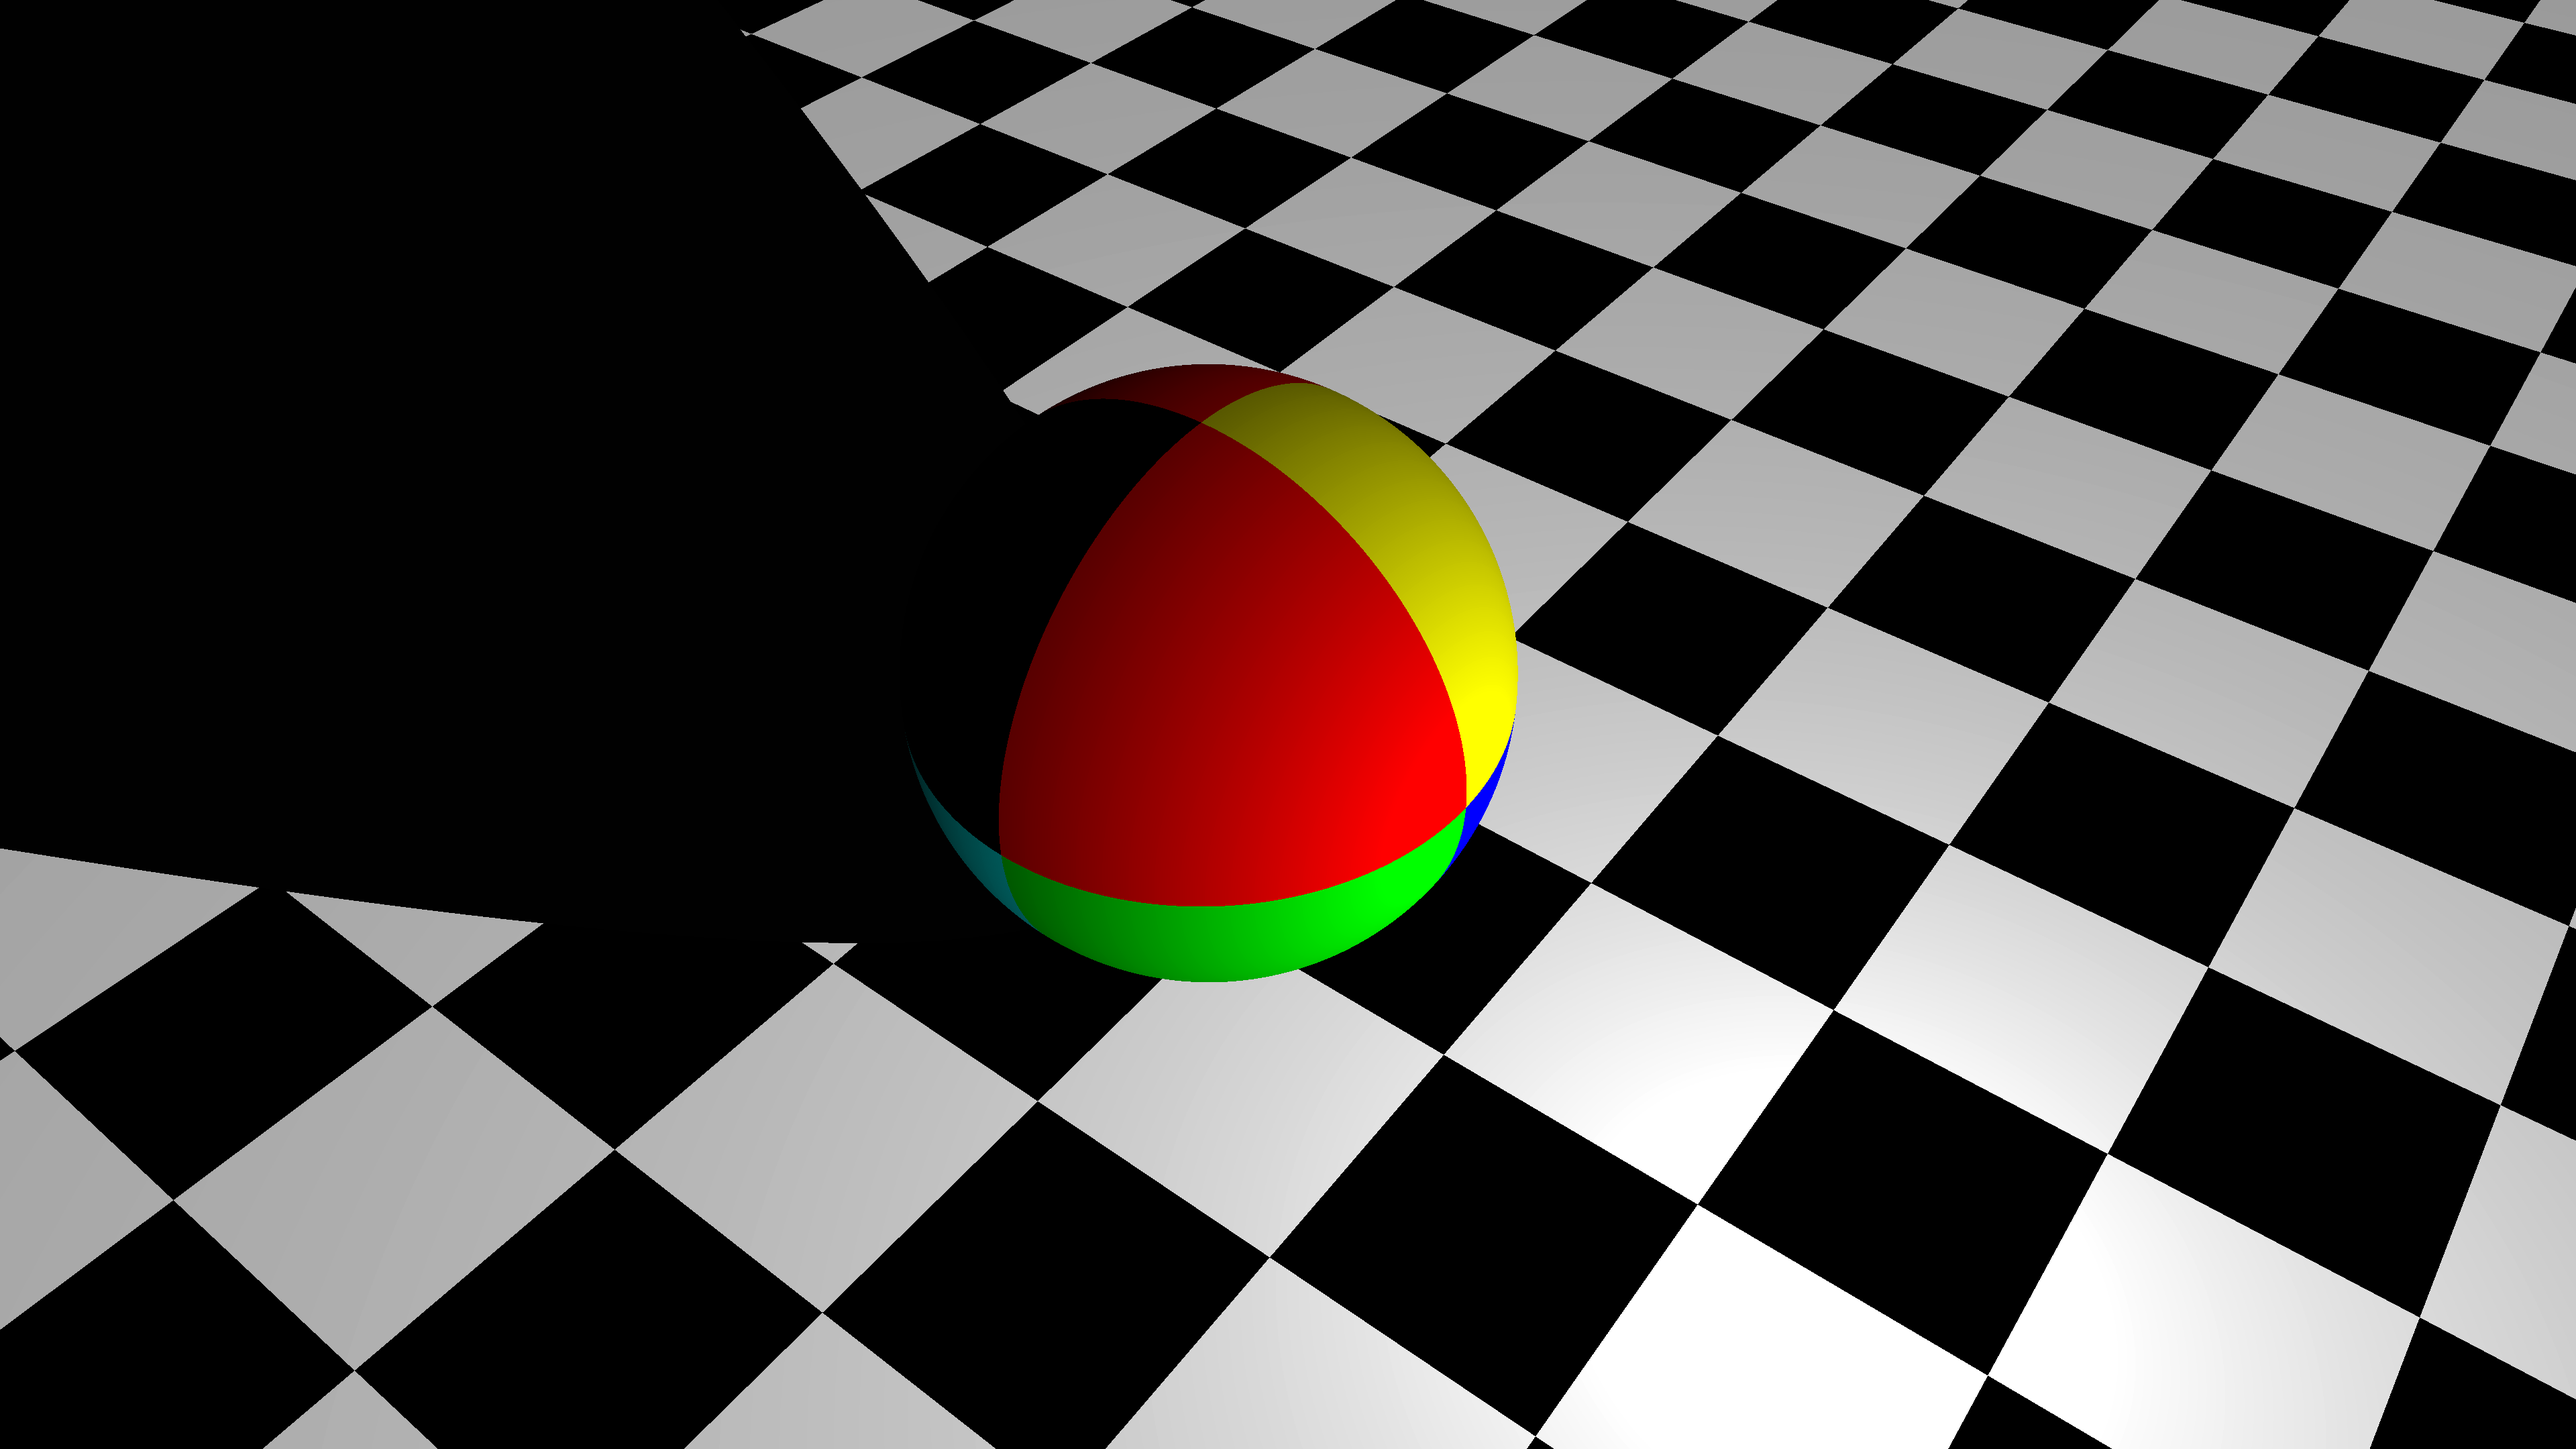
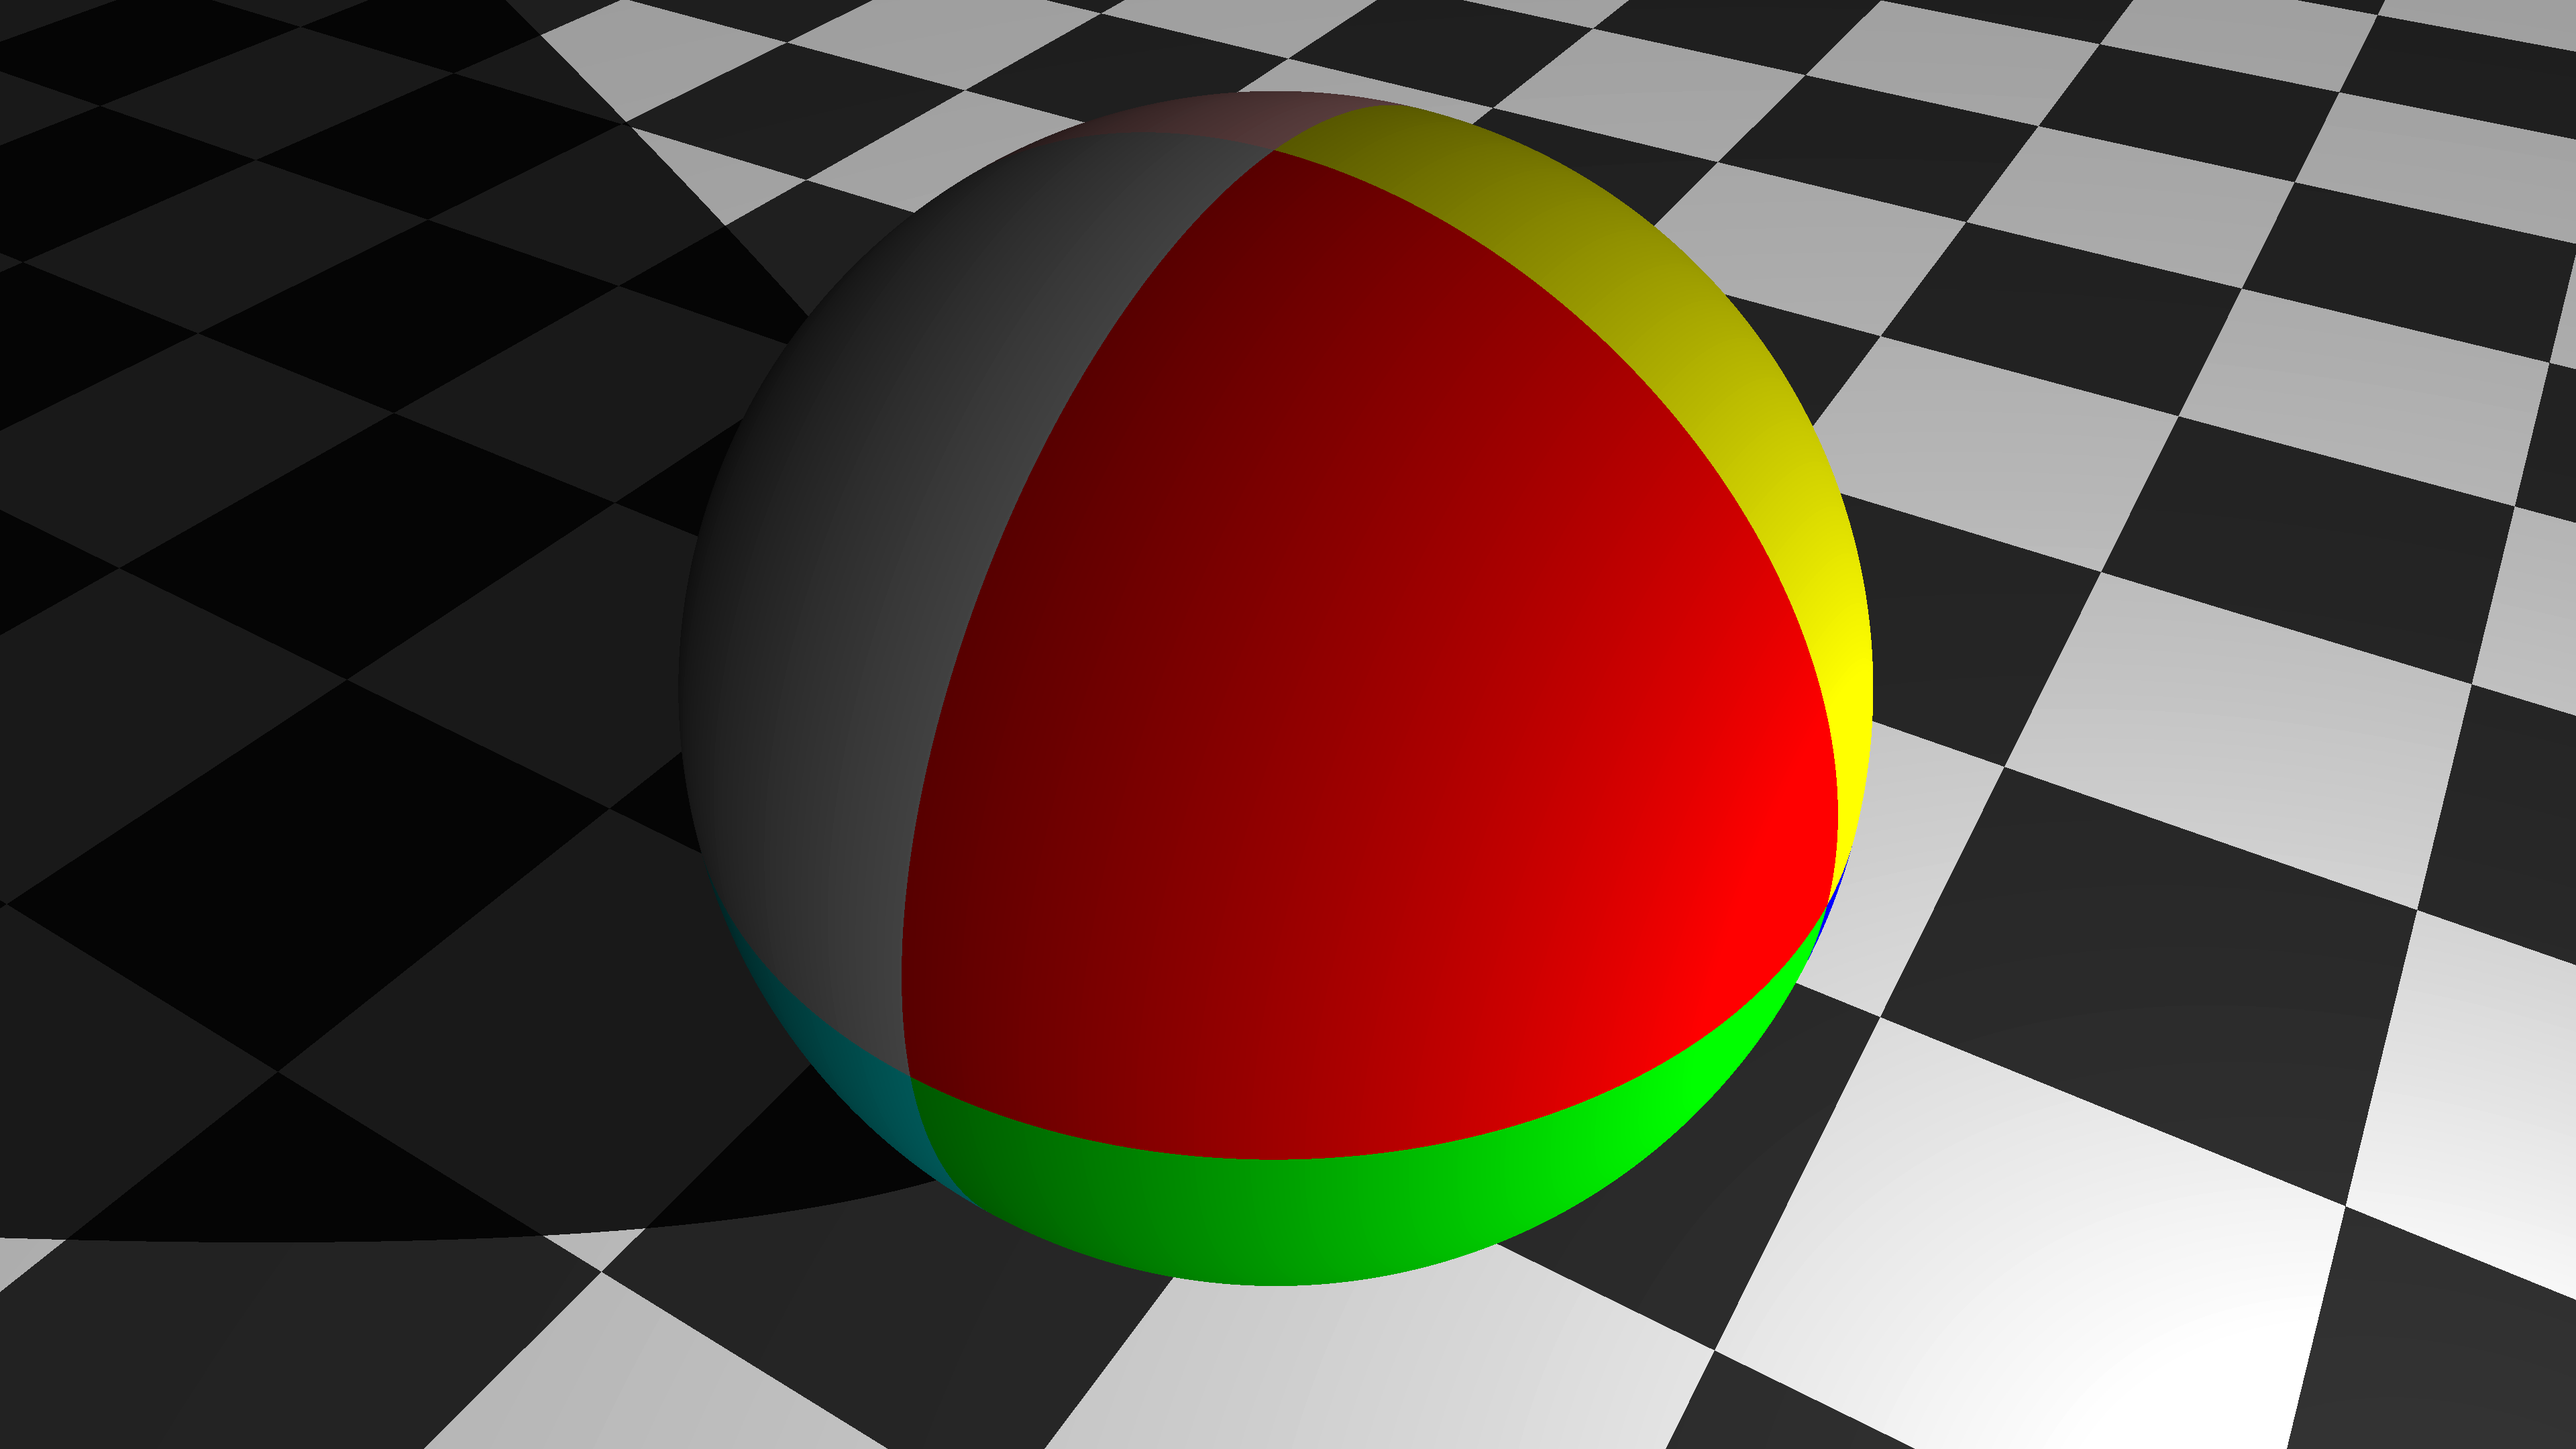
Fixed Shape shading

diff --git a/src/main/java/gameboy/materials/Material.java b/src/main/java/gameboy/materials/Material.java
@@ -13,7 +13,7 @@ import gameboy.utilities.math.Vector3;
 public abstract class Material {
 
     protected Color color;
-    protected double ambient = .1;
+    protected double ambient = .05;
     protected double diffuse = .1;
     protected double specular = .1;
     protected double shininess = 32;
@@ -37,6 +37,7 @@ public abstract class Material {
         Vector3 normal = rayHit.getObject().getNormal(rayHit); // Get object surface normal vector
         Vector3 hitPoint = rayHit.getHitPoint(); // Get hitpoint
         Color baseColor = getColor(hitPoint); // Get the specified base color at point on shape
+        Color shadowColor = interpolateColors(Color.BLACK, baseColor, ambient);
 
         LinkedList<Color> colors = new LinkedList<>();
         for (Light light : lights) {
@@ -45,12 +46,16 @@ public abstract class Material {
                 Vector3 lightPosition = light.getAnchor();
                 double brightnessFactor = normal.dot(lightPosition.subtract(hitPoint).normalize())
                         / hitPoint.distance(lightPosition) * hitPoint.distance(lightPosition);
-                Color shadedColor = multiplyColors(baseColor, light.getColor());
+                Color shadedColor = interpolateColors(Color.BLACK, baseColor, ambient);
+                shadedColor = multiplyColors(baseColor, light.getColor());
                 shadedColor = brighten(shadedColor, brightnessFactor);
-                colors.add(brighten(shadedColor, ambient));
+                if (shadedColor.getRGB() <= shadowColor.getRGB())
+                    colors.add(shadowColor);
+                else
+                    colors.add(shadedColor);
             }
             else {
-                colors.add(brighten(new Color(1, 1, 1), ambient));
+                colors.add(shadowColor);
             }
         }
 
@@ -89,6 +94,18 @@ public abstract class Material {
         int red = (int) (color.getRed() * (factor + 1));
         int green = (int) (color.getGreen() * (factor + 1));
         int blue = (int) (color.getBlue() * (factor + 1));
+
+        red = (red > 255) ? 255 : red;
+        green = (green > 255) ? 255 : green;
+        blue = (blue > 255) ? 255 : blue;
+
+        return new Color(red, green, blue);
+    }
+
+    private Color interpolateColors(Color color1, Color color2, double ratio) {
+        int red = (int) (color1.getRed() * (1 - ratio) + color2.getRed() * ratio);
+        int green = (int) (color1.getGreen() * (1 - ratio) + color2.getGreen() * ratio);
+        int blue = (int) (color1.getBlue() * (1 - ratio) + color2.getBlue() * ratio);
 
         red = (red > 255) ? 255 : red;
         green = (green > 255) ? 255 : green;
